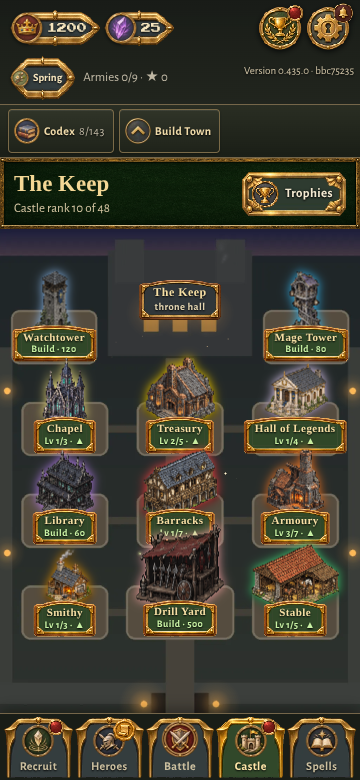
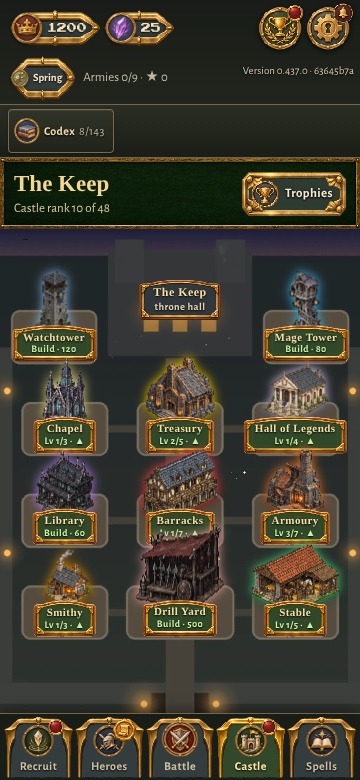
Build Town moves from the Castle tab to Settings › Developer
The testing tool works as before (every upgrade a level up, the top back to 1, the Chapel built, at least 5000 crowns), now as
buildTown in sim/devGrant.ts behind a painted button on the Developer page; the castle bar keeps only the Codex chip.

Claude-Session: https://claude.ai/code/session_01RRJtWntbZt8h7L3MMz2ZMx

diff --git a/src/settings.ts b/src/settings.ts
@@ -150,7 +150,7 @@ const PAGES: readonly { id: Page; title: string; hint: string }[] = [
   { id: 'gameplay', title: 'Gameplay', hint: 'Fight speed, hero quips, cinematics, ultimate scenes, tips' },
   { id: 'ruler', title: 'Ruler and Duchess', hint: 'Who rules your keep, and Duchess’s costume' },
   { id: 'data', title: 'Save and data', hint: 'Start over' },
-  { id: 'dev', title: 'Developer', hint: 'Crowns, shards and stones for testing' },
+  { id: 'dev', title: 'Developer', hint: 'Crowns, shards, stones and Build Town for testing' },
   { id: 'updates', title: 'Updates and notes', hint: 'What changed in each version' },
   { id: 'about', title: 'About', hint: 'Version and credits' },
 ];
@@ -613,7 +613,7 @@ export function onDevGrant(fn: (what: DevGift, n: number) => string): void {
 /** The owner's developer option, for testing: crowns, shards of every hero, or summoning stones, a hundred or a thousand a
  *  tap. Six buttons in two columns (a hundred, a thousand) and three rows, so they fit at 360 wide. */
 function devRow(): HTMLElement {
-  const [r, text] = row('Developer', 'For testing: crowns, shards of every hero, or summoning stones, a hundred or a thousand a tap');
+  const [r, text] = row('Developer', 'For testing: crowns, shards of every hero, or summoning stones, a hundred or a thousand a tap; Build Town raises every castle upgrade a level');
   const group = document.createElement('div');
   group.className = 'devGrant';
   for (const [what, n] of [['crowns', 100], ['crowns', 1000], ['shards', 100], ['shards', 1000], ['stones', 100], ['stones', 1000]] as const) {
@@ -625,6 +625,15 @@ function devRow(): HTMLElement {
     });
     group.append(b);
   }
+  // (Build Town, moved here from the Castle tab: every upgrade one level up, the Chapel built, at least 5000 crowns)
+  const town = document.createElement('button');
+  town.textContent = 'Build Town';
+  town.className = 'small devTown';
+  town.addEventListener('click', () => {
+    const said = devGrantFn?.('town', 0);
+    if (said) text.querySelector('em')!.textContent = said;
+  });
+  group.append(town);
   r.append(group);
   return r;
 }

diff --git a/src/sim/devGrant.ts b/src/sim/devGrant.ts
@@ -1,15 +1,17 @@
 // The developer grant in Settings (the owner's ask, for testing the game): crowns, shards of every hero, or summoning
 // stones, a hundred or a thousand a tap. Pure rules on the meta; the page saves it and redraws.
 
+import { BUILDING_IDS, maxLevel } from './castle';
 import { stonesOf, type Meta } from './meta';
 import { giveShards } from './unlock';
 import { ALL_HEROES } from './units';
 
-export type DevGift = 'crowns' | 'shards' | 'stones';
+export type DevGift = 'crowns' | 'shards' | 'stones' | 'town';
 
 /** Add `n` crowns, `n` summoning stones, or `n` shards of every hero (rank shards for one owned, unlock shards for one not, so it may join;
  *  shards past a hero's cap turn to crowns, as a pull's do). Returns a line saying what was given. */
 export function devGrant(m: Meta, what: DevGift, n: number): string {
+  if (what === 'town') return buildTown(m);
   if (what === 'crowns') {
     m.crowns += n;
     return `+${n} crowns`;
@@ -26,4 +28,16 @@ export function devGrant(m: Meta, what: DevGift, n: number): string {
     crowns += g.crowns;
   }
   return `+${n} shards to every hero` + (joined ? `, ${joined} joined` : '') + (crowns ? `, ${crowns} crowns from full heroes` : '');
+}
+
+/** Build Town (moved from the Castle tab to Settings › Developer, 0.437.0's follow-up; unchanged): each of the six upgrades one level up,
+ *  one at its top level back to 1 (so a tap walks through the looks), the Chapel built, and at least 5000 crowns. */
+export function buildTown(m: Meta): string {
+  for (const id of BUILDING_IDS) {
+    const cur = m.castle[id] ?? 0;
+    m.castle[id] = cur >= maxLevel(id) ? 1 : cur + 1;
+  }
+  m.chapel = true;
+  m.crowns = Math.max(m.crowns, 5000);
+  return 'Built the town: every upgrade one level up, the Chapel built';
 }

diff --git a/test/dev-grant.test.ts b/test/dev-grant.test.ts
@@ -1,5 +1,6 @@
 import { test } from 'node:test';
 import assert from 'node:assert/strict';
+import { readFileSync } from 'node:fs';
 import { newMeta, stonesOf } from '../src/sim/meta';
 import { devGrant } from '../src/sim/devGrant';
 import { ALL_HEROES } from '../src/sim/units';
@@ -33,4 +34,29 @@ test('the developer grant adds summoning stones, a hundred or a thousand a tap',
   delete m.stones;
   devGrant(m, 'stones', 100);
   assert.equal(m.stones, 100);
+});
+
+test('Build Town (in Settings › Developer since 0.437.0) raises every castle upgrade a level, wraps the top back to 1, builds the Chapel and sees to 5000 crowns', async () => {
+  const { BUILDING_IDS, maxLevel } = await import('../src/sim/castle');
+  const m = newMeta(1);
+  m.crowns = 200;
+  m.castle.treasury = maxLevel('treasury');
+  m.castle.barracks = 2;
+  const said = devGrant(m, 'town', 0);
+  assert.match(said, /Built the town/);
+  assert.equal(m.castle.treasury, 1, 'the top level wraps to 1');
+  assert.equal(m.castle.barracks, 3);
+  for (const id of BUILDING_IDS) assert.ok(m.castle[id] >= 1);
+  assert.equal(m.chapel, true);
+  assert.equal(m.crowns, 5000);
+  m.crowns = 9000;
+  devGrant(m, 'town', 0);
+  assert.equal(m.crowns, 9000, 'never takes crowns away');
+});
+
+test('the Castle tab no longer carries Build Town; the Developer page does', () => {
+  const home = readFileSync('src/home.ts', 'utf8');
+  const settings = readFileSync('src/settings.ts', 'utf8');
+  assert.ok(!home.includes("'Build Town'"));
+  assert.ok(settings.includes("devGrantFn?.('town', 0)"));
 });

diff --git a/src/home.ts b/src/home.ts
@@ -966,23 +966,10 @@ export class Home {
     cdx.append(medal('stall-books'), el('b', '', 'Codex'), el('small', '', `${gotOf(m, 'bestiary') + gotOf(m, 'heroes')}/${totalOf('bestiary') + totalOf('heroes')}`));
     if (codexWaiting(m).length > 0) cdx.append(el('i', 'badge'));
     cdx.addEventListener('click', () => this.openCodex());
-    const levelBtn = el('button', 'ctChip');
-    // (CASTLE-REMAKE: the painted rising arrow in place of the emoji castle)
-    levelBtn.append(medal('g-up'), el('b', '', 'Build Town'));
-    levelBtn.title = 'Upgrade all buildings to showcase their grand looks';
-    levelBtn.addEventListener('click', () => {
-      for (const id of BUILDING_IDS) {
-        const cur = m.castle[id] ?? 0;
-        m.castle[id] = cur >= maxLevel(id) ? 1 : cur + 1;
-      }
-      m.chapel = true;
-      m.crowns = Math.max(m.crowns, 5000);
-      saveMeta(m);
-      this.refresh();
-    });
+    // (Build Town is in Settings › Developer now: a testing tool, not a castle door)
     // (UX-FIXES: Achievements is the trophy in the top bar and Reset tips is in Settings: one door each)
     void ach;
-    row.append(cdx, levelBtn);
+    row.append(cdx);
     bar.append(row, el('div', 'ctHelp', 'tap a building to build or upgrade it · tap the guards to salute'));
     // (the buildings open at 10 army stars: until then the courtyard is a locked gate, with the stars still to win)
     this.castle.root.hidden = !up;

diff --git a/src/ornateMenus.css b/src/ornateMenus.css
@@ -625,6 +625,8 @@ button.danger:active:not(:disabled) {
   font-size: 13px;
   border: 1px solid #75664a;
 }
+/* (Build Town, moved here from the Castle tab: the whole row under the grants) */
+.devGrant .devTown { grid-column: 1 / -1; }
 
 /* Picker Overlay and Sheet (.spOverlay, .spCard) */
 .spOverlay {

diff --git a/docs/TASKS.md b/docs/TASKS.md
@@ -1070,7 +1070,7 @@ Owner relayed the UI chat's report. GitHub confirms PR #118 is open and draft. T
 
 | ID | Task | Result | Reference |
 | --- | --- | --- | --- |
-| CASTLE-REMAKE | The castle scene and page to match the rest of the game | Done on stand-ins, awaiting review and art: the Castle tab becomes one painted courtyard (2:3, ambient life) with its eleven buildings as tappable places with painted plaques, the six bonuses on painted chips, the throne hall in its frame under its own heading; every castle card is the standard ornate menu with the painted Build plate. No rule changed. Waits on four paintings (one prompt, `docs/notes/castle-remake-art-prompts.md`), dropped in by `tools/castle-remake/cut.py`. Typecheck, build, 84 affected tests, before/after shots at three sizes (0 errors, no overflow) | [Note](notes/castle-remake.md), branch `claude/castle-remake` |
+| CASTLE-REMAKE | The castle scene and page to match the rest of the game | Done on stand-ins, awaiting review and art: the Castle tab becomes one painted courtyard (2:3, ambient life) with its eleven buildings as tappable places with painted plaques, the six bonuses on painted chips, the throne hall in its frame under its own heading; every castle card is the standard ornate menu with the painted Build plate. No rule changed. Waits on four paintings (one prompt, `docs/notes/castle-remake-art-prompts.md`), dropped in by `tools/castle-remake/cut.py`. Typecheck, build, 84 affected tests, before/after shots at three sizes (0 errors, no overflow); follow-up: Build Town moved to Settings › Developer (`buildTown` in `sim/devGrant.ts`, tested), released 0.437.0 | [Note](notes/castle-remake.md), branch `claude/castle-remake` |
 | FIXES3 | The old map over the new one; a brisk, even walk between waves; the Paladin's colours | Done, awaiting review: the Calamity's map (z-index 5) was left open under any home-screen opening but its own buttons, so every mode begun after drew under it; `TowerView.dismiss()` shuts it when a fight is made, the Last Stand opens or the home screen shows (`tools/fixes3/maps.mjs` checks the switches). Every hero walks to the next section at 230 ms a tile over the fewest tiles, climbs free (`WALK_STEP_MS`, `walkAcross`). The Paladin's plain sheets are made from his awakened ones, gold to steel, his head and the shield's gold sign kept (`tools/paladin/plain.py`). Typecheck, full suite, build, browser checks | [Note](notes/fixes3.md), branch `claude/fixes-map-walk-paladin` |
 | KNIGHT-SPRITE | Kwame's plain battle sprite to look like his awakened form, the same man in plainer gear | Done, awaiting review: the plain front and back sheets are the awakened sheets frame for frame, gold to steel, the red cape and green inlays to dark blue cloth, the blade's blue core to steel, the shield's lion to a plain steel cross (`tools/knight/plain.py`); the soldier sheets take the awakened 152 x 116 grid with the same figure height; the `_deep` copies match, and the heritage tool skips him. Typecheck, affected tests, full suite, build, in-game shots at 393x852 | [Note](notes/knight-sprite.md), branch `claude/knight-sprite` |
 | AUDIO-THEME | Battle music that is unique, catchy, ours: one main theme, the same tune in each army's own dress | Done, awaiting review: an original JRPG-style main theme (`tools/epic-music/theme.mjs`) and an arranger; 12 battle tracks on it (general `battle` for the daily, Last Stand, spire and field fights; nine army tracks; `boss` in fragments; `calbattle`), each a 4-bar intro then a 40-bar seamless loop; the victory fanfare, the triumph bed and the camp re-arranged on the theme; `trackOfRun` gives each army its own track at every tier; `battle2`/`battle3` removed. Audio 5.87 → 7.66 MB. Typecheck, affected tests, full suite, build, every new file decoded in Chromium; examples for the owner to listen to before merging | [Note](notes/music-theme.md), branch `claude/music-theme` |

diff --git a/docs/notes/castle-remake.md b/docs/notes/castle-remake.md
@@ -46,8 +46,8 @@ under a panel head, painted plate buttons and medallions, and the standard ornat
    the blurb; a well with "Now" and "Level N"; the Rooms, the Sparring Yard and the Hall's plinths as sections; and the hints. The
    footer has the painted Close and the primary plate "Build · ⚜180 · ⏱20:00" (Building · clock while it goes up, Full at the top, greyed
    while too dear or the builders are elsewhere, with a note saying where). The chapel card is the same shell.
-6. The **Codex** and **Build Town** chips above the page keep their painted chips, now with medallions in place of the pixel icon and
-   the emoji.
+6. The **Codex** chip above the page keeps its painted chip, now with a medallion in place of the pixel icon (Build Town has moved to
+   Settings › Developer).
 
 ### Design calls (what I recommend, and why)
 
@@ -63,9 +63,11 @@ under a panel head, painted plate buttons and medallions, and the standard ornat
   drawing is unchanged. Only the backdrop is to be repainted (`throne-hall.png`, empty dais: the rulers bring their own throne).
   Phase 2, not done here: draw the four guards from the tavern's painted guest art instead of pixel sheets.
 - **Section order: courtyard, then bonuses, then hall.** The buildings are what a player comes to the tab for.
-- **"Build Town" is kept as it was.** It upgrades every building, grants the Chapel and sets crowns to at least 5000. That looks like a
-  developer button on a player's page, so the director may want it moved to Settings › Developer. I left that alone, since it isn't
-  a look change.
+- **"Build Town" moved to Settings › Developer** (the director's follow-up after 0.437.0). It is a testing tool, not a castle door. It
+  works as before: every upgrade one level up (one at its top goes back to 1), the Chapel built, and at least 5000 crowns. The rule is
+  `buildTown` in `src/sim/devGrant.ts` (`devGrant(m, 'town', 0)`), and it is the full-width painted button under the grants on the
+  Developer page, which says what it did. The Castle tab's bar keeps only the Codex chip. Tests are in `test/dev-grant.test.ts`; the
+  shots are `after-dev-*.png` and `after-dev-town-*.png`, with `after-scene-*.png` taken again.
 
 ## Files
 
